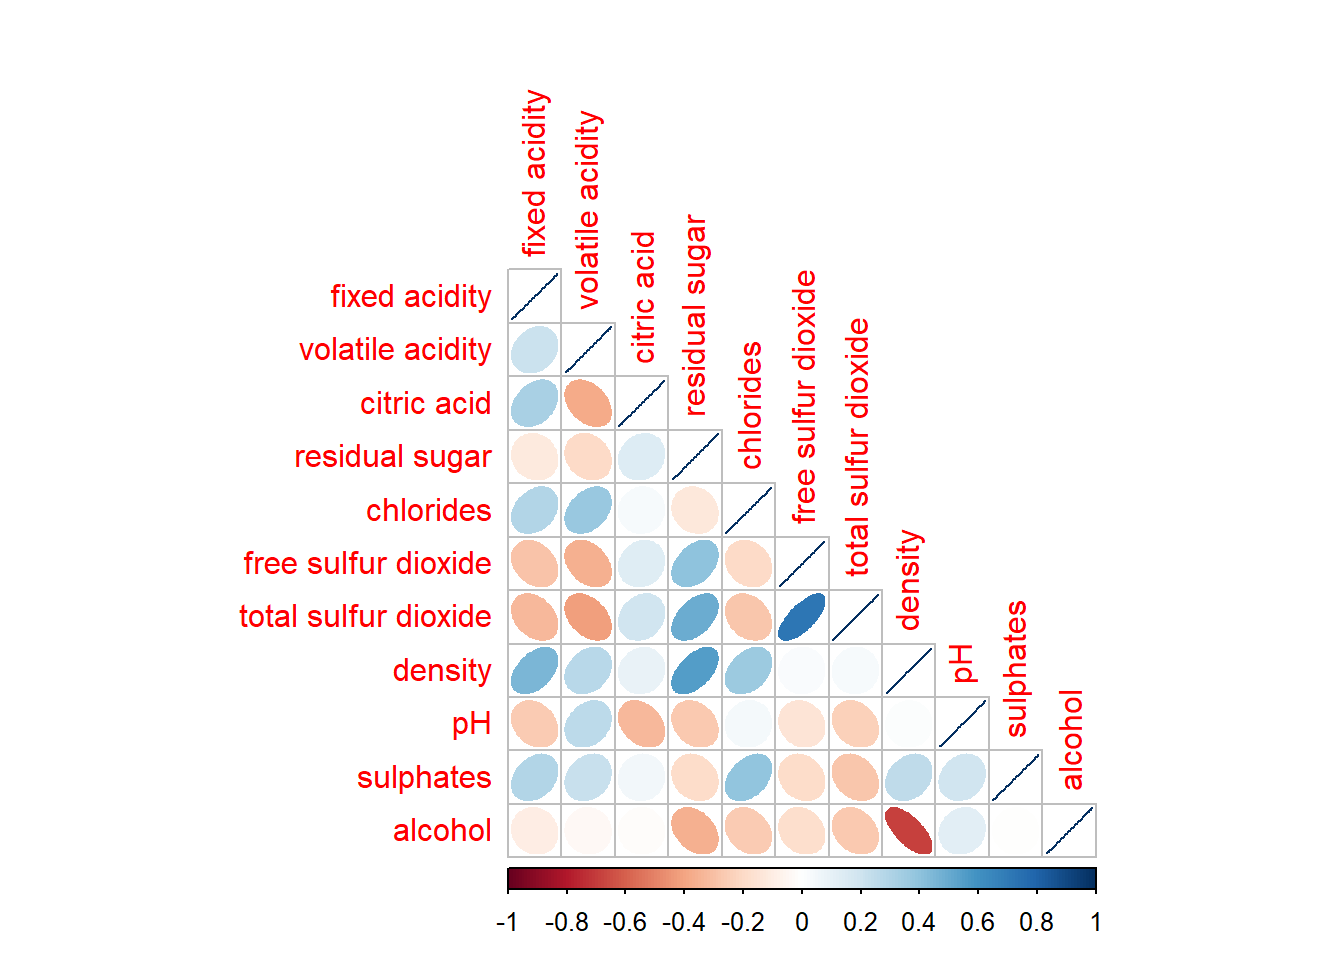
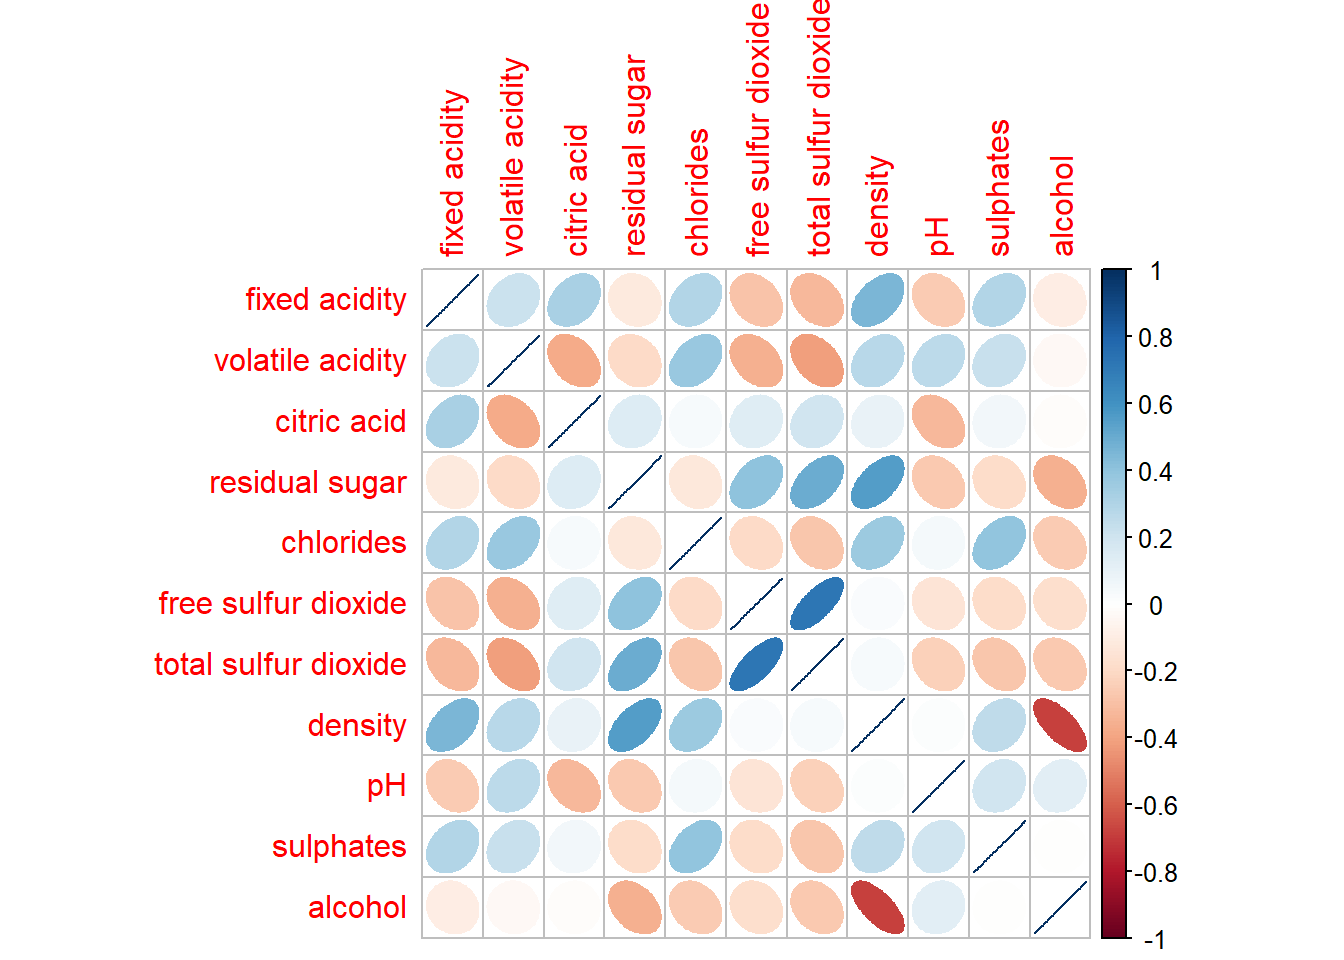
In-class exercise 05

Changed region(s): [[0.125, 0.0, 0.875, 1.0]]

diff --git a/_site/In-class_Ex/In-class_Ex05/In-class_Ex05.html b/_site/In-class_Ex/In-class_Ex05/In-class_Ex05.html
@@ -245,7 +245,11 @@ code span.wa { color: #60a0b0; font-weight: bold; font-style: italic; } /* Warni
     <h2 id="toc-title">On this page</h2>
    
   <ul>
-  <li><a href="#install-and-launching-r-packages" id="toc-install-and-launching-r-packages" class="nav-link active" data-scroll-target="#install-and-launching-r-packages">Install and launching R packages</a></li>
+  <li><a href="#install-and-launching-r-packages" id="toc-install-and-launching-r-packages" class="nav-link active" data-scroll-target="#install-and-launching-r-packages">Install and launching R packages</a>
+  <ul class="collapse">
+  <li><a href="#ggcorrmat" id="toc-ggcorrmat" class="nav-link" data-scroll-target="#ggcorrmat">ggcorrmat</a></li>
+  <li><a href="#correlation-plot" id="toc-correlation-plot" class="nav-link" data-scroll-target="#correlation-plot">Correlation plot</a></li>
+  </ul></li>
   </ul>
 </nav>
     </div>
@@ -342,7 +346,9 @@ $ type                   &lt;chr&gt; "red", "red", "red", "red", "red", "red", "
 <p><img src="In-class_Ex05_files/figure-html/unnamed-chunk-6-1.png" class="img-fluid" width="672"></p>
 </div>
 </div>
-<p><a href="https://www.rdocumentation.org/packages/ggstatsplot/versions/0.2.0/topics/ggcorrmat">ggcorrmat</a> Visualization of a correlation matrix</p>
+<section id="ggcorrmat" class="level2">
+<h2 class="anchored" data-anchor-id="ggcorrmat"><a href="https://www.rdocumentation.org/packages/ggstatsplot/versions/0.2.0/topics/ggcorrmat">ggcorrmat</a></h2>
+<p>Visualization of a correlation matrix. The message below x = … explain the significant level. We also have an option to resize the cross according to the significant level.</p>
 <div class="cell">
 <div class="sourceCode cell-code" id="cb8"><pre class="sourceCode r code-with-copy"><code class="sourceCode r"><span id="cb8-1"><a href="#cb8-1" aria-hidden="true" tabindex="-1"></a>ggstatsplot<span class="sc">::</span><span class="fu">ggcorrmat</span>(</span>
 <span id="cb8-2"><a href="#cb8-2" aria-hidden="true" tabindex="-1"></a>  <span class="at">data =</span> wine, </span>
@@ -351,44 +357,65 @@ $ type                   &lt;chr&gt; "red", "red", "red", "red", "red", "red", "
 <p><img src="In-class_Ex05_files/figure-html/unnamed-chunk-7-1.png" class="img-fluid" width="672"></p>
 </div>
 </div>
-<p>Include correlation coefficient</p>
 <div class="cell">
-<div class="sourceCode cell-code" id="cb9"><pre class="sourceCode r code-with-copy"><code class="sourceCode r"><span id="cb9-1"><a href="#cb9-1" aria-hidden="true" tabindex="-1"></a>wine.cor <span class="ot">&lt;-</span> <span class="fu">cor</span>(wine[, <span class="dv">1</span><span class="sc">:</span><span class="dv">11</span>])</span>
-<span id="cb9-2"><a href="#cb9-2" aria-hidden="true" tabindex="-1"></a><span class="fu">corrplot</span>(wine.cor)</span></code><button title="Copy to Clipboard" class="code-copy-button"><i class="bi"></i></button></pre></div>
+<div class="sourceCode cell-code" id="cb9"><pre class="sourceCode r code-with-copy"><code class="sourceCode r"><span id="cb9-1"><a href="#cb9-1" aria-hidden="true" tabindex="-1"></a>ggstatsplot<span class="sc">::</span><span class="fu">ggcorrmat</span>(</span>
+<span id="cb9-2"><a href="#cb9-2" aria-hidden="true" tabindex="-1"></a>  <span class="at">data =</span> wine, </span>
+<span id="cb9-3"><a href="#cb9-3" aria-hidden="true" tabindex="-1"></a>  <span class="at">cor.vars =</span> <span class="dv">1</span><span class="sc">:</span><span class="dv">11</span>,</span>
+<span id="cb9-4"><a href="#cb9-4" aria-hidden="true" tabindex="-1"></a>  <span class="at">ggcorrplot.args =</span> <span class="fu">list</span>(<span class="at">outline.color =</span> <span class="st">"black"</span>, </span>
+<span id="cb9-5"><a href="#cb9-5" aria-hidden="true" tabindex="-1"></a>                         <span class="at">hc.order =</span> <span class="cn">TRUE</span>,</span>
+<span id="cb9-6"><a href="#cb9-6" aria-hidden="true" tabindex="-1"></a>                         <span class="at">tl.cex =</span> <span class="dv">10</span>),</span>
+<span id="cb9-7"><a href="#cb9-7" aria-hidden="true" tabindex="-1"></a>  <span class="at">title    =</span> <span class="st">"Correlogram for wine dataset"</span>,</span>
+<span id="cb9-8"><a href="#cb9-8" aria-hidden="true" tabindex="-1"></a>  <span class="at">subtitle =</span> <span class="st">"Four pairs are no significant at p &lt; 0.05"</span></span>
+<span id="cb9-9"><a href="#cb9-9" aria-hidden="true" tabindex="-1"></a>)</span></code><button title="Copy to Clipboard" class="code-copy-button"><i class="bi"></i></button></pre></div>
 <div class="cell-output-display">
 <p><img src="In-class_Ex05_files/figure-html/unnamed-chunk-8-1.png" class="img-fluid" width="672"></p>
+</div>
+</div>
+<p>Include correlation coefficient</p>
+</section>
+<section id="correlation-plot" class="level2">
+<h2 class="anchored" data-anchor-id="correlation-plot">Correlation plot</h2>
+<p>Corrplot is not a ggplot extension but based on Rgraphic</p>
+<p>ggcorrplot will require the object .corr which can be generated with the command cor.</p>
+<div class="cell">
+<div class="sourceCode cell-code" id="cb10"><pre class="sourceCode r code-with-copy"><code class="sourceCode r"><span id="cb10-1"><a href="#cb10-1" aria-hidden="true" tabindex="-1"></a>wine.cor <span class="ot">&lt;-</span> <span class="fu">cor</span>(wine[, <span class="dv">1</span><span class="sc">:</span><span class="dv">11</span>])</span>
+<span id="cb10-2"><a href="#cb10-2" aria-hidden="true" tabindex="-1"></a><span class="fu">corrplot</span>(wine.cor)</span></code><button title="Copy to Clipboard" class="code-copy-button"><i class="bi"></i></button></pre></div>
+<div class="cell-output-display">
+<p><img src="In-class_Ex05_files/figure-html/unnamed-chunk-9-1.png" class="img-fluid" width="672"></p>
 </div>
 </div>
 <p>Correlogram</p>
 <p>The slimmer one represents highly correlate relationship.</p>
 <div class="cell">
-<div class="sourceCode cell-code" id="cb10"><pre class="sourceCode r code-with-copy"><code class="sourceCode r"><span id="cb10-1"><a href="#cb10-1" aria-hidden="true" tabindex="-1"></a><span class="fu">corrplot</span>(wine.cor, </span>
-<span id="cb10-2"><a href="#cb10-2" aria-hidden="true" tabindex="-1"></a>         <span class="at">method =</span> <span class="st">"ellipse"</span>) </span></code><button title="Copy to Clipboard" class="code-copy-button"><i class="bi"></i></button></pre></div>
-<div class="cell-output-display">
-<p><img src="In-class_Ex05_files/figure-html/unnamed-chunk-9-1.png" class="img-fluid" width="672"></p>
-</div>
-</div>
-<div class="cell">
 <div class="sourceCode cell-code" id="cb11"><pre class="sourceCode r code-with-copy"><code class="sourceCode r"><span id="cb11-1"><a href="#cb11-1" aria-hidden="true" tabindex="-1"></a><span class="fu">corrplot</span>(wine.cor, </span>
-<span id="cb11-2"><a href="#cb11-2" aria-hidden="true" tabindex="-1"></a>         <span class="at">method =</span> <span class="st">"ellipse"</span>, </span>
-<span id="cb11-3"><a href="#cb11-3" aria-hidden="true" tabindex="-1"></a>         <span class="at">type=</span><span class="st">"lower"</span>)</span></code><button title="Copy to Clipboard" class="code-copy-button"><i class="bi"></i></button></pre></div>
+<span id="cb11-2"><a href="#cb11-2" aria-hidden="true" tabindex="-1"></a>         <span class="at">method =</span> <span class="st">"ellipse"</span>) </span></code><button title="Copy to Clipboard" class="code-copy-button"><i class="bi"></i></button></pre></div>
 <div class="cell-output-display">
 <p><img src="In-class_Ex05_files/figure-html/unnamed-chunk-10-1.png" class="img-fluid" width="672"></p>
 </div>
 </div>
 <div class="cell">
-<div class="sourceCode cell-code" id="cb12"><pre class="sourceCode r code-with-copy"><code class="sourceCode r"><span id="cb12-1"><a href="#cb12-1" aria-hidden="true" tabindex="-1"></a><span class="fu">corrplot.mixed</span>(wine.cor, </span>
-<span id="cb12-2"><a href="#cb12-2" aria-hidden="true" tabindex="-1"></a>               <span class="at">lower =</span> <span class="st">"ellipse"</span>, </span>
-<span id="cb12-3"><a href="#cb12-3" aria-hidden="true" tabindex="-1"></a>               <span class="at">upper =</span> <span class="st">"number"</span>,</span>
-<span id="cb12-4"><a href="#cb12-4" aria-hidden="true" tabindex="-1"></a>               <span class="at">tl.pos =</span> <span class="st">"lt"</span>,</span>
-<span id="cb12-5"><a href="#cb12-5" aria-hidden="true" tabindex="-1"></a>               <span class="at">diag =</span> <span class="st">"l"</span>,</span>
-<span id="cb12-6"><a href="#cb12-6" aria-hidden="true" tabindex="-1"></a>               <span class="at">tl.col =</span> <span class="st">"black"</span>)</span></code><button title="Copy to Clipboard" class="code-copy-button"><i class="bi"></i></button></pre></div>
+<div class="sourceCode cell-code" id="cb12"><pre class="sourceCode r code-with-copy"><code class="sourceCode r"><span id="cb12-1"><a href="#cb12-1" aria-hidden="true" tabindex="-1"></a><span class="fu">corrplot</span>(wine.cor, </span>
+<span id="cb12-2"><a href="#cb12-2" aria-hidden="true" tabindex="-1"></a>         <span class="at">method =</span> <span class="st">"ellipse"</span>, </span>
+<span id="cb12-3"><a href="#cb12-3" aria-hidden="true" tabindex="-1"></a>         <span class="at">type=</span><span class="st">"lower"</span>)</span></code><button title="Copy to Clipboard" class="code-copy-button"><i class="bi"></i></button></pre></div>
 <div class="cell-output-display">
 <p><img src="In-class_Ex05_files/figure-html/unnamed-chunk-11-1.png" class="img-fluid" width="672"></p>
 </div>
 </div>
+<p>corrplot.mixed allows us to combine the corrplot and the corrmat.</p>
+<div class="cell">
+<div class="sourceCode cell-code" id="cb13"><pre class="sourceCode r code-with-copy"><code class="sourceCode r"><span id="cb13-1"><a href="#cb13-1" aria-hidden="true" tabindex="-1"></a><span class="fu">corrplot.mixed</span>(wine.cor, </span>
+<span id="cb13-2"><a href="#cb13-2" aria-hidden="true" tabindex="-1"></a>               <span class="at">lower =</span> <span class="st">"ellipse"</span>, </span>
+<span id="cb13-3"><a href="#cb13-3" aria-hidden="true" tabindex="-1"></a>               <span class="at">upper =</span> <span class="st">"number"</span>,</span>
+<span id="cb13-4"><a href="#cb13-4" aria-hidden="true" tabindex="-1"></a>               <span class="at">tl.pos =</span> <span class="st">"lt"</span>,</span>
+<span id="cb13-5"><a href="#cb13-5" aria-hidden="true" tabindex="-1"></a>               <span class="at">diag =</span> <span class="st">"l"</span>,</span>
+<span id="cb13-6"><a href="#cb13-6" aria-hidden="true" tabindex="-1"></a>               <span class="at">tl.col =</span> <span class="st">"blue"</span>)</span></code><button title="Copy to Clipboard" class="code-copy-button"><i class="bi"></i></button></pre></div>
+<div class="cell-output-display">
+<p><img src="In-class_Ex05_files/figure-html/unnamed-chunk-12-1.png" class="img-fluid" width="672"></p>
+</div>
+</div>
 
 
+</section>
 </section>
 
 </main> <!-- /main -->
